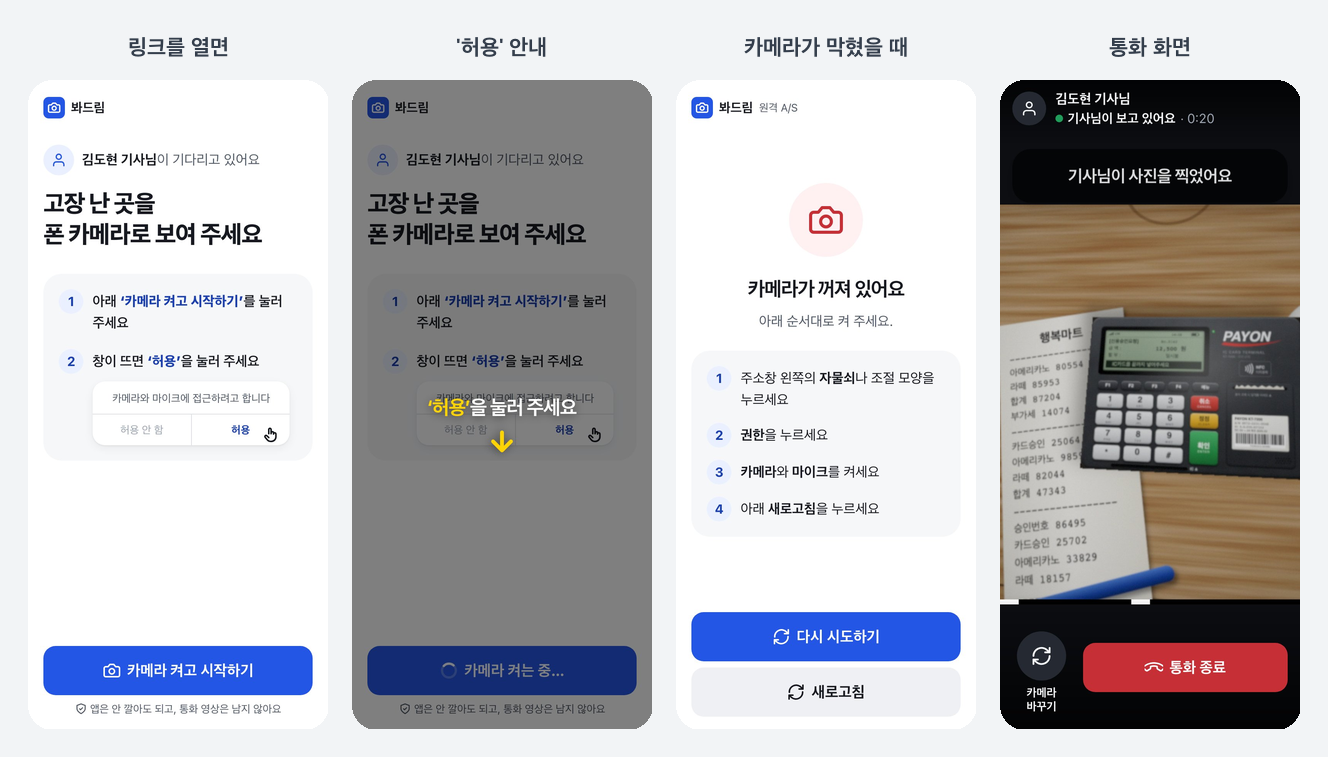
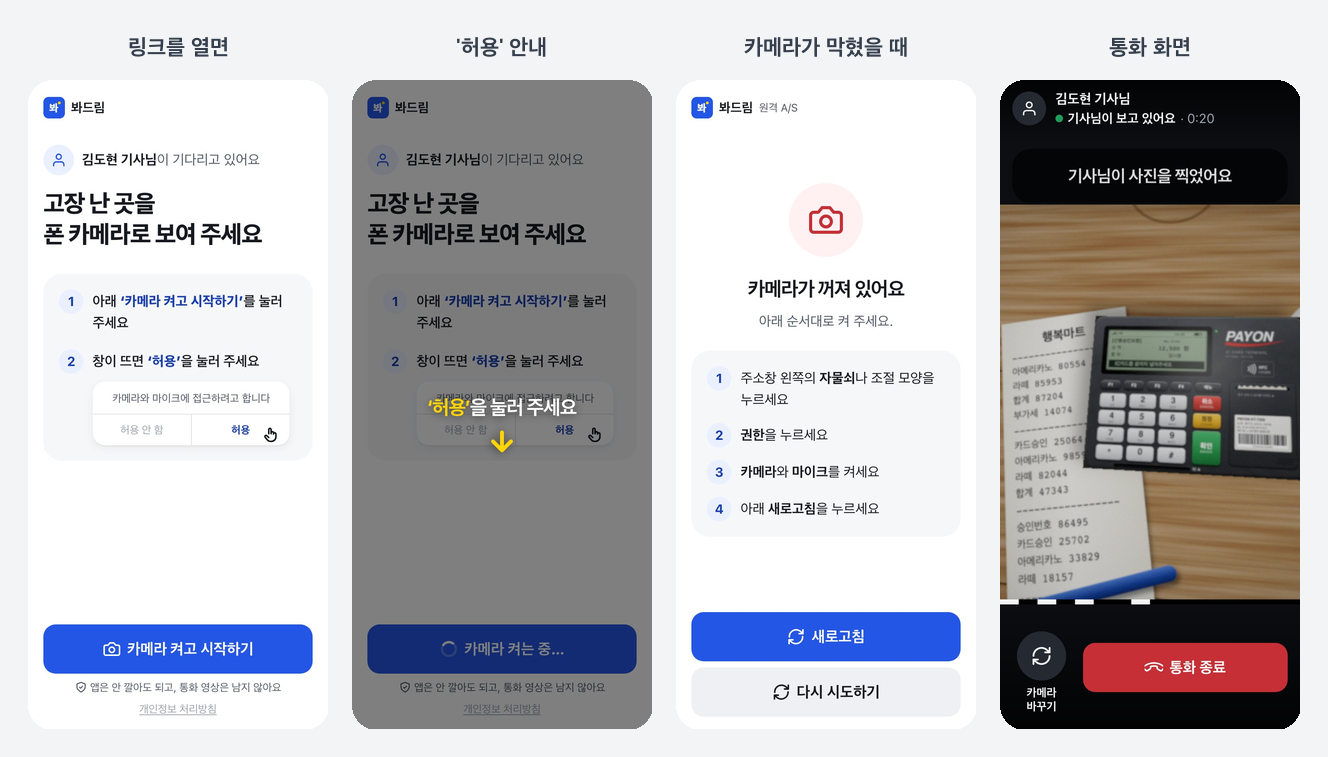
README: 새 로고로 화면 묶음 사진·고객 움짤 다시 만듦, 앱이 웹처럼 보이지 않게 한 일, 숫자 갱신
- docs/media/engineer.png·customer.png: 화면 카탈로그로 다시 찍음(없앤 '이번 달 상담' 카드·옛 카메라 로고 빠짐)
- docs/media/join.gif: npm run readme:media로 다시 녹화
- 기술적으로 고민한 것: TWA 웹 티 고친 방법(번역·당겨 새로고침·꾹 누름, 상태 표시줄 색, 화면 넘김, Bubblewrap 버릇, 크롬 앱에만 서비스 워커)
- 단위 테스트 522개, e2e 60여 개, 요구사항 90여 개. 할일의 README 사진 항목 지움

diff --git a/README.md b/README.md
@@ -90,20 +90,30 @@ A/S 대상(단말기, 공유기 뒷면, 보일러 컨트롤러, 두꺼비집)은
 - 확신이 없으면 숨깁니다. 옆 버튼을 가리키는 것이 안 보이는 것보다 훨씬 나쁘기 때문입니다
 - Web Worker에서 돌고, Node 벤치마크(`npm run bench:tracking`)와 같은 코드를 씁니다. 설계는 [src/lib/tracking/README.md](src/lib/tracking/README.md)
 
+### 웹을 감싼 앱이 웹처럼 보이지 않게
+
+기사님용 안드로이드 앱은 Bubblewrap으로 만든 TWA(크롬이 주소창 없이 띄우는 웹)입니다. 웹을 배포하면 앱도 바로 바뀌는 대신, 웹다운 버릇이 그대로 드러납니다. 에뮬레이터에 앱을 깔고 크롬 DevTools(CDP)로 붙어서 하나씩 찾아 고쳤습니다.
+
+- 크롬은 `translate="no"`만으로는 번역 제안을 계속 띄우고, `html`에만 준 `overscroll-behavior`로는 당겨 새로고침을 막지 못하며, 안드로이드에서는 `-webkit-touch-callout`을 무시합니다. 구글 번역 메타, `body`에도 같은 설정, `contextmenu` 막기로 바꿨습니다
+- 상태 표시줄은 화면 맨 위 가장자리의 실제 바탕색을 읽어 `theme-color`로 넣어 화면마다 따라가게 했습니다
+- 화면 넘김은 React `ViewTransition`으로 들어가면 오른쪽, 돌아오면 왼쪽에서 밀려 들어오고, 누르는 즉시 뼈대 화면이 보입니다
+- Bubblewrap은 투명색(`#00000000`)을 불투명 검정으로 넣어 아래 띠 위에 검은 줄을 그리고, 홈 화면 아이콘 둘레에 흰 테를 둡니다. 빌드 단계에서 바로잡습니다
+- 오프라인 화면은 서비스 워커가 필요한데, 삼성 인터넷은 서비스 워커가 있으면 홈 화면 앱을 자체 APK로 만들고 Play 프로텍트가 그것을 막습니다. 그래서 앱이 처음 연 화면의 referrer(`android-app://…`)로 크롬이 띄운 앱일 때만 등록합니다
+
 ### 테스트와 화면 카탈로그
 
-- 단위 테스트 501개(Vitest), e2e 40여 개(Playwright). e2e는 **가짜 카메라 영상 + 가짜 Supabase + 실제 WebRTC 루프백**으로 두 브라우저를 진짜로 연결합니다
+- 단위 테스트 522개(Vitest), e2e 60여 개(Playwright). e2e는 **가짜 카메라 영상 + 가짜 Supabase + 실제 WebRTC 루프백**으로 두 브라우저를 진짜로 연결합니다
 - `npm run screens` 한 번이면 오류·대기·끊김까지 **화면 상태 100여 개**를 폰·PC로 찍어 HTML 한 장에 모읍니다. 위 이미지와 움짤도 이 장치로 만들었습니다(`npm run readme:media`)
 
 ### 요구사항 문서로 소통
 
-기능 요구사항 110여 개를 [docs/requirements.md](docs/requirements.md)에 ID(`CALL-15` 같은)와 상태(✅/🚧), 확인 방법, 관련 코드로 정리합니다. 기능을 바꾸면 같은 커밋에서 문서를 고칩니다. 코드를 보지 않는 사람과도 ID로 이야기할 수 있게 하려는 것입니다. 알려진 문제(BUG-01~33)도 같은 문서에서 원인과 해결을 기록합니다.
+기능 요구사항 90여 개를 [docs/requirements.md](docs/requirements.md)에 ID(`CALL-15` 같은)와 상태(✅/🚧), 확인 방법, 관련 코드로 정리합니다. 기능을 바꾸면 같은 커밋에서 문서를 고칩니다. 코드를 보지 않는 사람과도 ID로 이야기할 수 있게 하려는 것입니다. 알려진 문제(BUG-01~33)도 같은 문서에서 원인과 해결을 기록합니다.
 
 ## 구조
 
 ```mermaid
 flowchart LR
-  E["기사님 브라우저<br/>(폰·PC)"]
+  E["기사님 안드로이드 앱(TWA)·브라우저<br/>(폰·PC)"]
   C["고객 폰 브라우저<br/>(로그인 없음)"]
   subgraph Vercel["Vercel · 서울 리전"]
     N["Next.js 16<br/>서버 액션 · /api/turn · /api/events"]
@@ -131,6 +141,8 @@ src/app/(engineer)/ 로그인, 상담 목록, 통화, 통계 (로그인 필요)
 src/app/join/       고객 진입 (공개, 32자리 링크 토큰)
 src/components/ui/  디자인 시스템 부품 (피그마 컴포넌트와 같은 이름)
 e2e/                Playwright e2e, 화면 카탈로그, README 움짤 녹화
+android/            기사님 안드로이드 앱 설정 (Bubblewrap TWA, GitHub Actions로 빌드)
+docs/play-store/    플레이 출시 순서, 스토어 글, 스크린샷
 ```
 
 ## 지표

diff --git a/할일.md b/할일.md
@@ -7,10 +7,6 @@
 카드 사진은 2026-11-20에 새 로고로 바꿨다(`public/kakao-share-v3.png`). 같은 날 카카오 개발자 콘솔의 앱 이름을 '봐드림'으로, 아이콘을 새 로고로 바꿨다(사용자 말, 화면으로는 확인 안 함).
 - 카톡으로 한 번 보내 새 사진과 맨 아래 출처('봐드림'·새 아이콘)가 뜨는지 본다. 확인되면 이 항목을 지운다
 
-## README 엔지니어 화면 묶음 사진 다시 만들기
-
-`docs/media/engineer.png`에 2026-10-21에 없앤 '이번 달 상담' 카드와 옛 대기 화면 부제가 찍혀 있다. `npm run screens`로 찍은 뒤 `scripts/readme-media/make-strip.py`로 다시 만든다(한글 글꼴이 있는 맥에서. 점검한 클라우드 환경에는 한글 글꼴이 없었다).
-
 ## 피그마 부품 정리 (NFR-08)
 
 코드에서는 2026-10-11에 지웠다. 피그마 StatusChip의 '원격 해결'·'방문 필요' 톤과 Icons의 트럭·연필 아이콘도 지운다.
